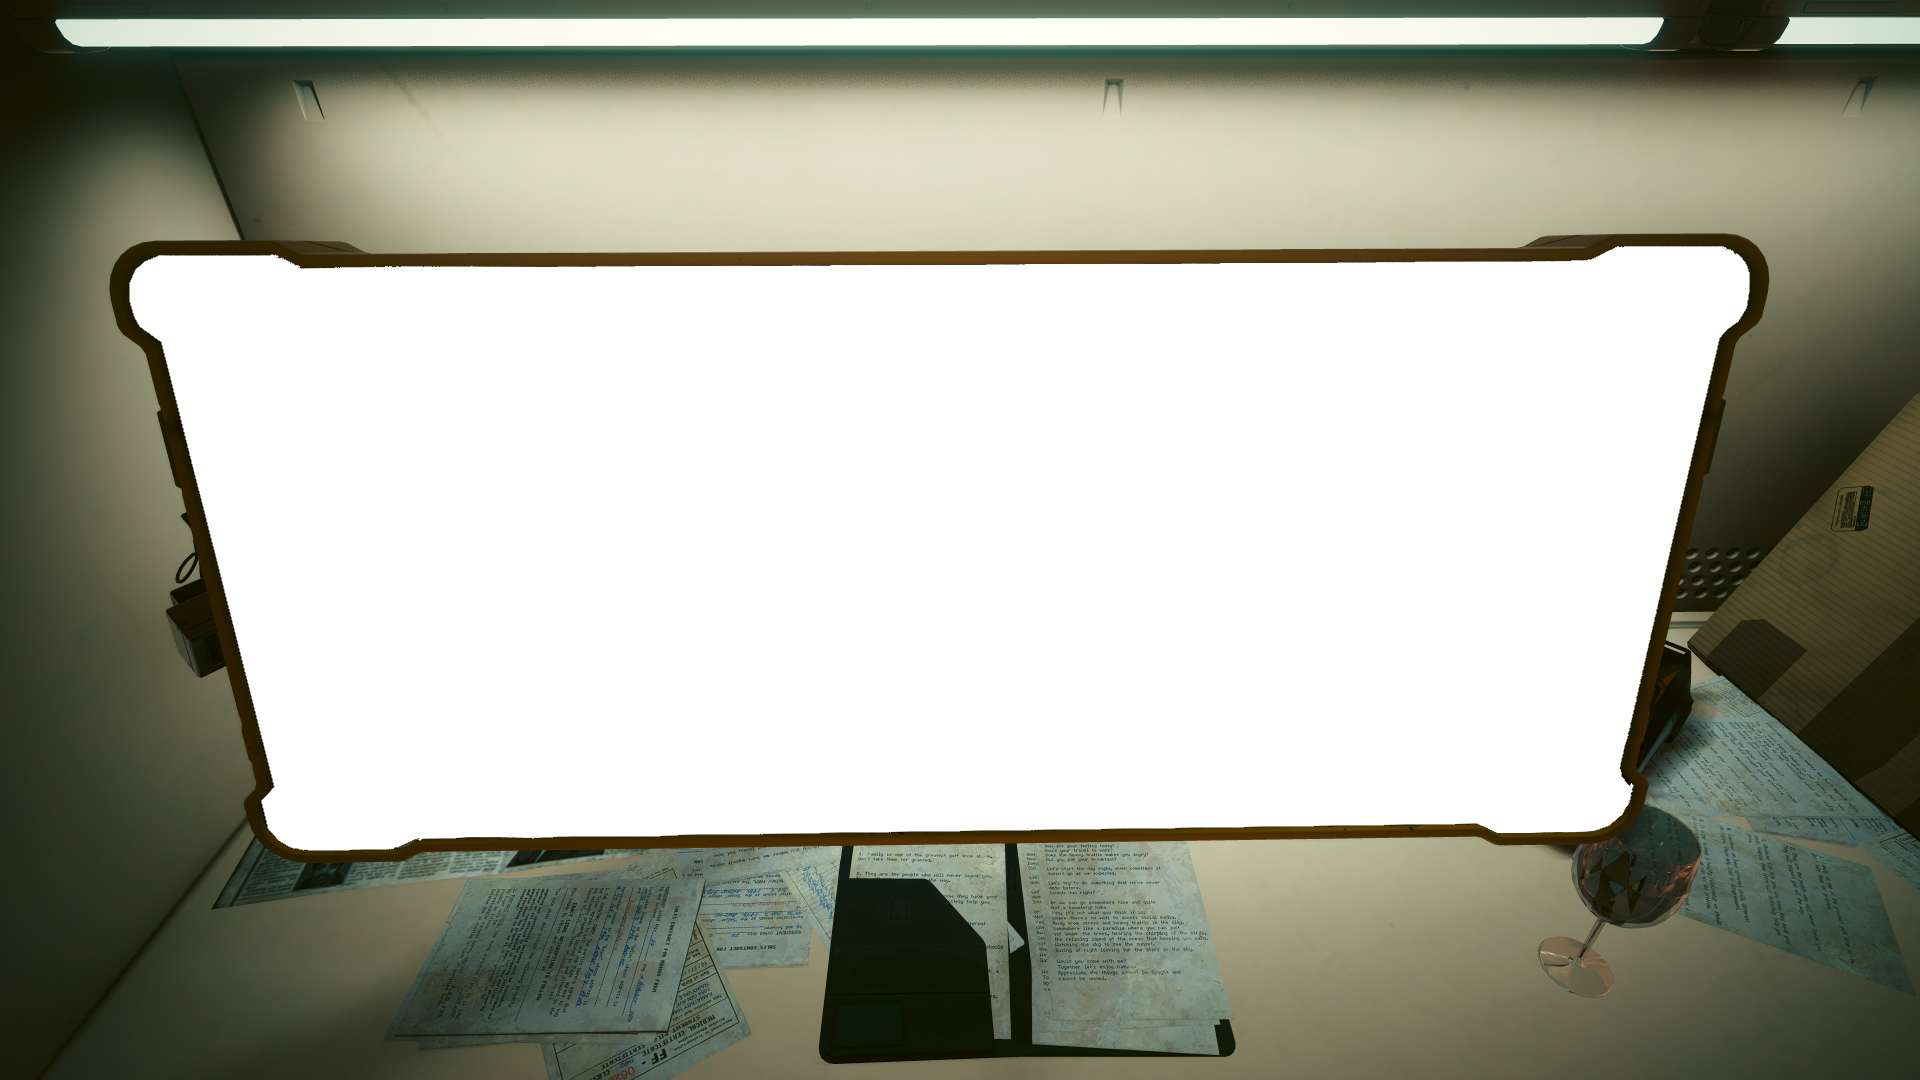
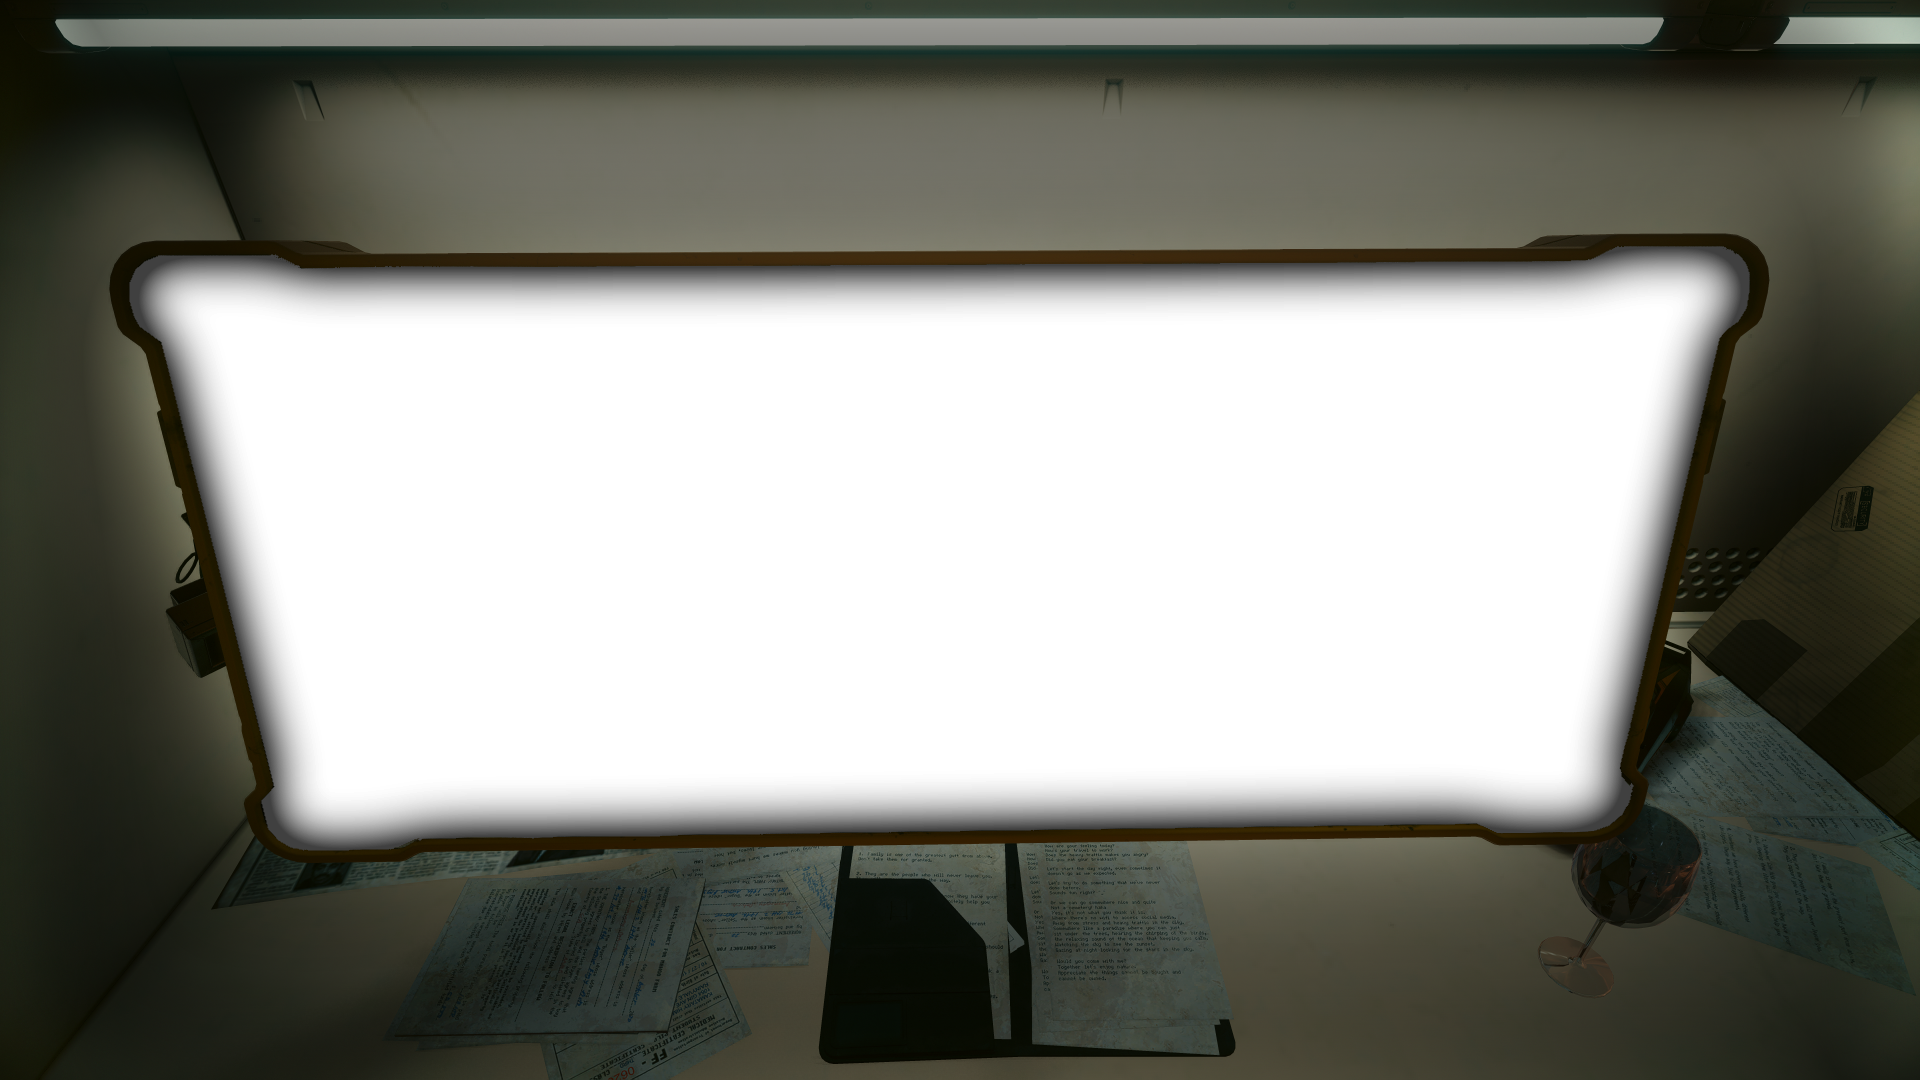
updated background image and added meta data to new index.html

diff --git a/index.html b/index.html
@@ -3,7 +3,23 @@
 <head>
   <meta charset="UTF-8">
   <meta name="viewport" content="width=device-width, initial-scale=1.0">
-  <title>Centered Iframe</title>
+  <meta name="description" content="SALP.Pryzum.net">
+  <meta name="keywords" content="SALP, Purple RP, Nopixel, fictional site">
+  <meta name="author" content="Prx5y">
+  <meta property="og:title" content="SALP.Pryzum.net">
+  <meta property="og:description" content="Pryzum.net">
+  <meta property="og:image" content="https://femboy.beauty/_sF2x">
+  <meta property="og:url" content="https://pryzum.net">
+  <meta name="twitter:card" content="summary_large_image">
+  <meta name="twitter:title" content="SALP.Pryzum.net">
+  <meta name="twitter:description" content="SALP.Pryzum.net">
+  <meta name="twitter:image" content="https://femboy.beauty/_sF2x">
+  <title>S.A.L.P</title>
+  <link rel="icon" type="image/x-icon" href="./media/Images/red rose.png">
+  <link rel="stylesheet" href="https://cdnjs.cloudflare.com/ajax/libs/normalize/5.0.0/normalize.min.css">
+  <link rel="stylesheet" type="text/css" media="screen" href="./mainpage.css">
+  <link rel="stylesheet" href="https://fonts.googleapis.com/css2?family=Montserrat:wght@200;500;700&family=Nunito+Sans:wght@200;400&display=swap">
+  <link rel="stylesheet" href="https://fonts.googleapis.com/css2?family=Rajdhani:wght@300;400;500&display=swap">
   <style>
     body, html {
       margin: 0;
@@ -53,7 +69,7 @@
       position: fixed;
       top: 10px;
       right: 10px;
-      font-size: 72px;
+      font-size: 27px;
       color: rgb(0, 0, 0);
       z-index: 3; /* Ensure the text is above the image */
       pointer-events: none; /* Ensure the text does not interfere with interactions */
@@ -61,7 +77,7 @@
   </style>
 </head>
 <body>
-  <div class="top-right-text">( BETA :3 )</div>
+  <div class="top-right-text"> this site is optimised for 1080p monitors </div>
   <img src="./background.png" alt="Fullscreen Image" class="fullscreen-image">
   <div class="iframe-container">
     <iframe src="./mainpage.html" title="Example Iframe"></iframe>
